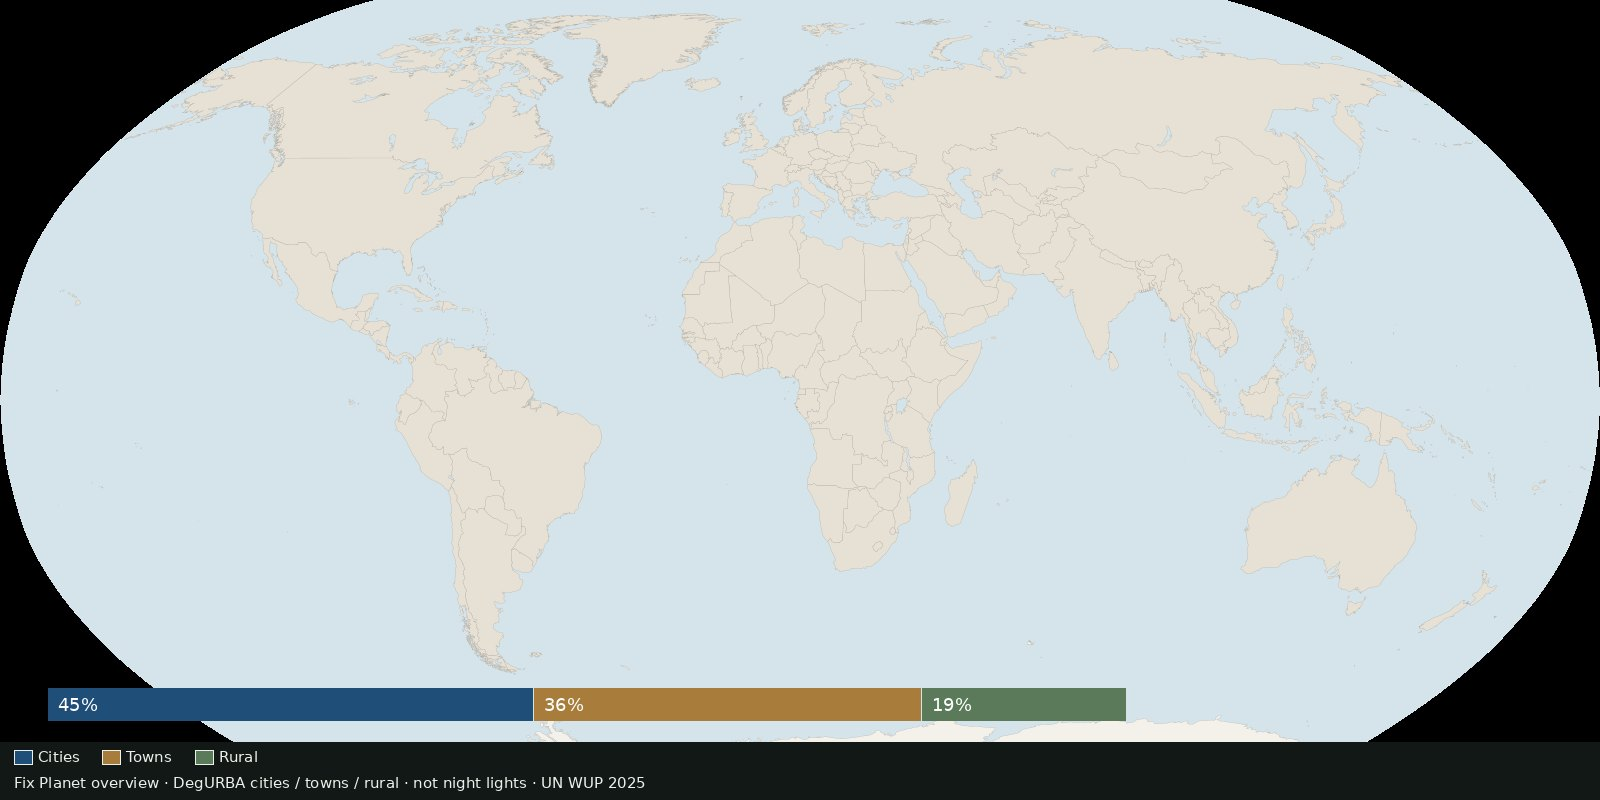
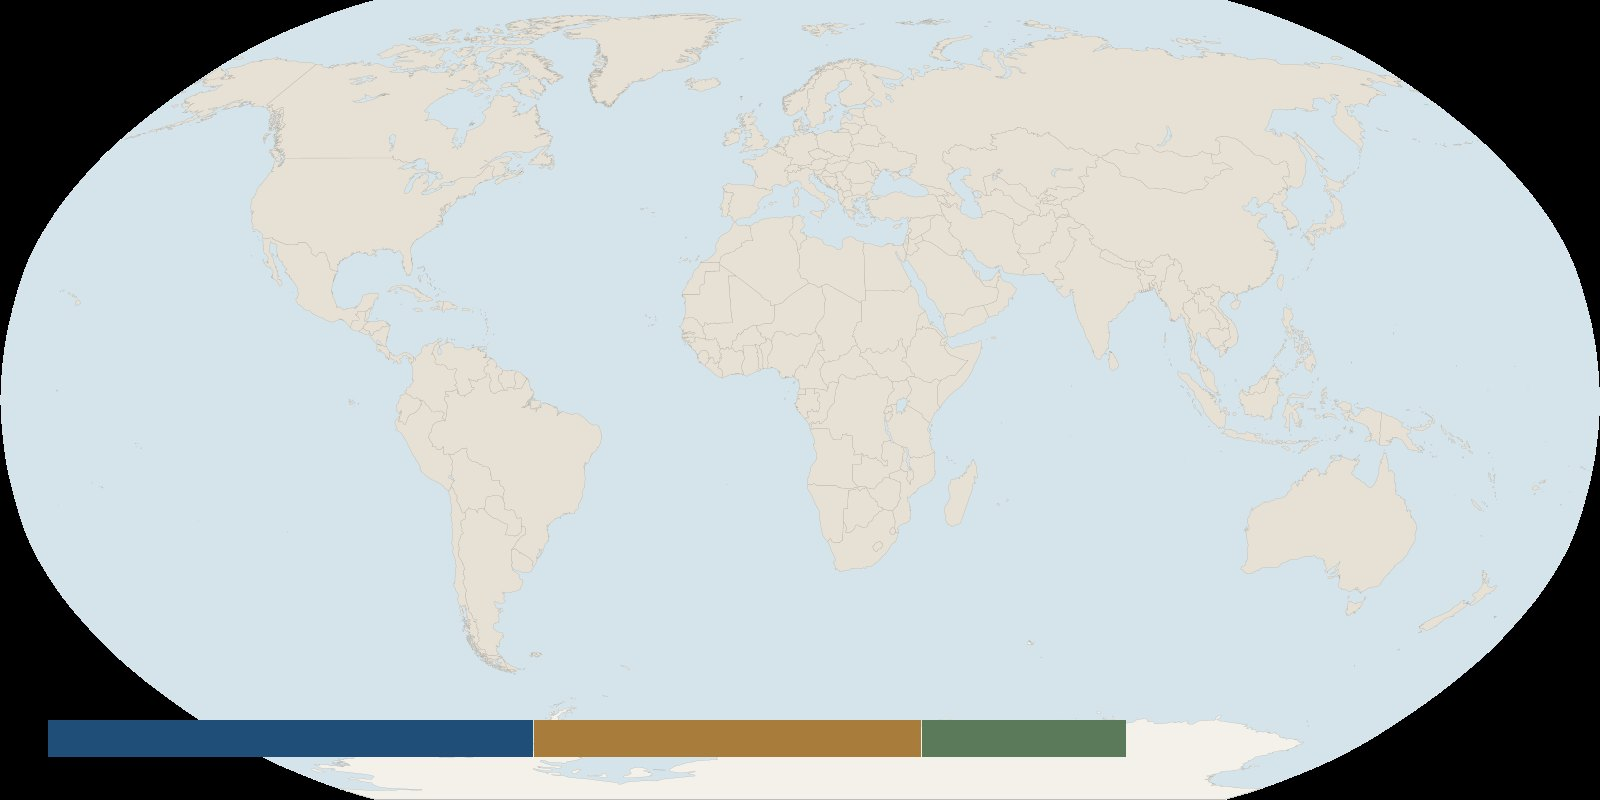
Name the four population source lists and strip preview text.
Readable publisher and document titles replace file stems, and same-document PDF duplicates are dropped. The four new previews keep map shading only.

Changed region(s): [[0.0, 0.8438, 0.8438, 1.0]]

diff --git a/src/data/maps.ts b/src/data/maps.ts
@@ -769,29 +769,28 @@ export const mapMeta: MapMeta[] = [
     previewKind: 'schematic',
     cardMeta: 'UN WPP 2024 · ~8.2 billion (2024) · country totals',
     sources: [
-      { label: 'UN WPP 2024', url: 'https://population.un.org/wpp/' },
+      { label: 'UN DESA — World Population Prospects', url: 'https://population.un.org/wpp/' },
       {
-        label: 'UN DESA PD WPP 2024',
+        label: 'UN DESA — World Population Prospects 2024',
         url: 'https://www.un.org/development/desa/pd/world-population-prospects-2024',
       },
       {
-        label: 'DESA Publications WPP 2024',
+        label: 'UN DESA — WPP 2024: Summary of Results',
         url: 'https://desapublications.un.org/publications/world-population-prospects-2024-summary-results',
       },
       {
-        label: 'DESA Publications 20847',
-        url: 'https://desapublications.un.org/file/20847/download',
-      },
-      {
-        label: 'UN DESA PD key_messages_wpp_2024',
+        label: 'UN DESA — WPP 2024: Key messages',
         url: 'https://www.un.org/development/desa/pd/sites/www.un.org.development.desa.pd/files/key_messages_wpp_2024_20240709.pdf',
       },
       {
-        label: 'UN DESA PD wpp-2024_09_07_24',
+        label: 'UN DESA — WPP 2024 press release',
         url: 'https://www.un.org/development/desa/pd/sites/www.un.org.development.desa.pd/files/undesa_pd_2024_wpp-2024_press-release_final_09_07_24.pdf',
       },
-      { label: 'OWID /population', url: 'https://ourworldindata.org/grapher/population' },
-      { label: 'OWID /population-growth', url: 'https://ourworldindata.org/population-growth' },
+      { label: 'Our World in Data — Population', url: 'https://ourworldindata.org/grapher/population' },
+      {
+        label: 'Our World in Data — Population growth',
+        url: 'https://ourworldindata.org/population-growth',
+      },
     ],
   },
   {
@@ -806,31 +805,30 @@ export const mapMeta: MapMeta[] = [
     previewKind: 'schematic',
     cardMeta: 'UN WUP 2025 · DegURBA · cities ~45%',
     sources: [
-      { label: 'UN WUP 2025', url: 'https://population.un.org/wup/' },
-      { label: 'UN WUP /downloads', url: 'https://population.un.org/wup/downloads' },
+      { label: 'UN DESA — World Urbanization Prospects', url: 'https://population.un.org/wup/' },
       {
-        label: 'UN DESA PD WUP 2025',
+        label: 'UN DESA — World Urbanization Prospects datasets',
+        url: 'https://population.un.org/wup/downloads',
+      },
+      {
+        label: 'UN DESA — World Urbanization Prospects 2025',
         url: 'https://www.un.org/development/desa/pd/world-urbanization-prospects-2025',
       },
       {
-        label: 'DESA Publications WUP 2025',
+        label: 'UN DESA — WUP 2025: Summary of Results',
         url: 'https://desapublications.un.org/publications/world-urbanization-prospects-2025-summary-results',
       },
       {
-        label: 'UN DESA PD wup2025_summary_of_results',
-        url: 'https://www.un.org/development/desa/pd/sites/www.un.org.development.desa.pd/files/undesa_pd_2025_wup2025_summary_of_results.pdf',
-      },
-      {
-        label: 'UN DESA PD key_messages_wup_2025',
+        label: 'UN DESA — WUP 2025: Key messages',
         url: 'https://www.un.org/development/desa/pd/sites/www.un.org.development.desa.pd/files/undesa_pd_2024_key_messages_wup_2025.pdf',
       },
       {
-        label: 'UN DESA PD press_release_wup25',
+        label: 'UN DESA — WUP 2025 press release',
         url: 'https://www.un.org/development/desa/pd/sites/www.un.org.development.desa.pd/files/undesa_pd_2025_press_release_wup25.pdf',
       },
-      { label: 'OWID /urbanization', url: 'https://ourworldindata.org/urbanization' },
+      { label: 'Our World in Data — Urbanization', url: 'https://ourworldindata.org/urbanization' },
       {
-        label: 'OWID /share-of-population-urban',
+        label: 'Our World in Data — Urban population share',
         url: 'https://ourworldindata.org/grapher/share-of-population-urban',
       },
     ],
@@ -848,27 +846,27 @@ export const mapMeta: MapMeta[] = [
     cardMeta: 'EC GHSL · GHS-BUILT-S R2023A · 1975–2030',
     sources: [
       {
-        label: 'EC GHSL R2023A',
+        label: 'European Commission JRC — Global Human Settlement Layer',
         url: 'https://human-settlement.emergency.copernicus.eu/',
       },
       {
-        label: 'EC GHSL ghs_buS2023',
+        label: 'European Commission JRC — GHSL GHS-BUILT-S R2023A',
         url: 'https://human-settlement.emergency.copernicus.eu/ghs_buS2023.php',
       },
       {
-        label: 'EC GHSL /datasets',
+        label: 'European Commission JRC — GHSL datasets',
         url: 'https://human-settlement.emergency.copernicus.eu/datasets.php',
       },
       {
-        label: 'EC GHSL ghs_pop2023',
+        label: 'European Commission JRC — GHSL GHS-POP R2023A',
         url: 'https://human-settlement.emergency.copernicus.eu/ghs_pop2023.php',
       },
       {
-        label: 'UN DESA PD wup2025_summary_of_results',
+        label: 'UN DESA — WUP 2025: Summary of Results',
         url: 'https://www.un.org/development/desa/pd/sites/www.un.org.development.desa.pd/files/undesa_pd_2025_wup2025_summary_of_results.pdf',
       },
       {
-        label: 'UN DESA PD key_messages_wup_2025',
+        label: 'UN DESA — WUP 2025: Key messages',
         url: 'https://www.un.org/development/desa/pd/sites/www.un.org.development.desa.pd/files/undesa_pd_2024_key_messages_wup_2025.pdf',
       },
     ],
@@ -885,26 +883,29 @@ export const mapMeta: MapMeta[] = [
     previewKind: 'schematic',
     cardMeta: 'UN WPP 2024 · annual growth rate · country',
     sources: [
-      { label: 'UN WPP 2024', url: 'https://population.un.org/wpp/' },
+      { label: 'UN DESA — World Population Prospects', url: 'https://population.un.org/wpp/' },
       {
-        label: 'UN DESA PD WPP 2024',
+        label: 'UN DESA — World Population Prospects 2024',
         url: 'https://www.un.org/development/desa/pd/world-population-prospects-2024',
       },
       {
-        label: 'UN DESA PD key_messages_wpp_2024',
+        label: 'UN DESA — WPP 2024: Key messages',
         url: 'https://www.un.org/development/desa/pd/sites/www.un.org.development.desa.pd/files/key_messages_wpp_2024_20240709.pdf',
       },
       {
-        label: 'UN DESA PD wpp-2024_09_07_24',
+        label: 'UN DESA — WPP 2024 press release',
         url: 'https://www.un.org/development/desa/pd/sites/www.un.org.development.desa.pd/files/undesa_pd_2024_wpp-2024_press-release_final_09_07_24.pdf',
       },
       {
-        label: 'OWID /population-growth-rates',
+        label: 'Our World in Data — Population growth rate',
         url: 'https://ourworldindata.org/grapher/population-growth-rates',
       },
-      { label: 'OWID /population-growth', url: 'https://ourworldindata.org/population-growth' },
       {
-        label: 'OWID /population-and-demography',
+        label: 'Our World in Data — Population growth',
+        url: 'https://ourworldindata.org/population-growth',
+      },
+      {
+        label: 'Our World in Data — Population and demography',
         url: 'https://ourworldindata.org/explorers/population-and-demography',
       },
     ],

diff --git a/scripts/generate-map-previews.py b/scripts/generate-map-previews.py
@@ -1025,30 +1025,35 @@ def methane_emissions() -> None:
     )
 
 
+def _shade_countries(groups: dict[str, list[str]], ocean: str, land: str, ant: str, stroke: str, dest: str) -> None:
+    """Country shading only. No legend and no footer — these previews are reused in every locale."""
+    css = f"""
+    .oceanxx {{ fill: {ocean} !important; stroke: none !important; }}
+    .landxx {{ fill: {land} !important; stroke: {stroke} !important; stroke-width: 0.28 !important; }}
+    .antxx {{ fill: {ant} !important; }}
+    .circlexx, .subxx, .noxx, .unxx {{ opacity: 0 !important; }}
+    {css_fills(groups)}
+    """
+    save_jpg(render_svg_image(css, ""), dest)
+
+
 def world_population() -> None:
-    """Log-scale orientation of country totals. Not WPP figures and not density."""
+    """Log-scale orientation of country totals. Shading only."""
     highest = "in cn".split()
     high = "us id pk ng br bd".split()
     mid = "ru mx jp et ph eg cd vn ir tr de".split()
-    conflicts_schematic(
+    _shade_countries(
         {"#0b3a5b": highest, "#1f6aa5": high, "#7eb0d4": mid},
         ocean="#d5e4ee",
         land="#e7e2d8",
         ant="#f4f7f8",
         stroke="#8a938c",
         dest="world-population.jpg",
-        swatches=[
-            ((11, 58, 91), "Highest band"),
-            ((31, 106, 165), "High band"),
-            ((126, 176, 212), "Mid band"),
-            ((231, 226, 216), "Not classed here"),
-        ],
-        credit="Fix Planet overview · country population · log-scale bands · not WPP figures · not density · UN WPP 2024 / OWID",
     )
 
 
 def cities_and_towns() -> None:
-    """DegURBA world shares (cities / towns / rural). Not a national % urban choropleth."""
+    """DegURBA world shares as an unlabeled color bar. Not a national % urban choropleth."""
     css = """
     .oceanxx { fill: #d5e3ea !important; stroke: none !important; }
     .landxx { fill: #e7e0d4 !important; stroke: #8a8174 !important; stroke-width: 0.28 !important; }
@@ -1057,33 +1062,22 @@ def cities_and_towns() -> None:
     """
     im = render_svg_image(css, "")
     draw = ImageDraw.Draw(im)
-    font = load_font(18)
-    x0, y0, bar_h, total_w = 48, 688, 32, 1080
+    x0, y0, bar_h, total_w = 48, 720, 36, 1080
     segments = [
-        (0.45, (31, 78, 121), "45%"),
-        (0.36, (168, 124, 58), "36%"),
-        (0.19, (90, 122, 90), "19%"),
+        (0.45, (31, 78, 121)),
+        (0.36, (168, 124, 58)),
+        (0.19, (90, 122, 90)),
     ]
     x = x0
-    for frac, color, label in segments:
+    for frac, color in segments:
         w = int(total_w * frac)
         draw.rectangle((x, y0, x + w - 2, y0 + bar_h), fill=color)
-        draw.text((x + 10, y0 + 6), label, fill=(255, 255, 255), font=font)
         x += w
-    im = legend_bar(
-        im,
-        [
-            ((31, 78, 121), "Cities"),
-            ((168, 124, 58), "Towns"),
-            ((90, 122, 90), "Rural"),
-        ],
-        "Fix Planet overview · DegURBA cities / towns / rural · not night lights · UN WUP 2025",
-    )
     save_jpg(im, "cities-and-towns.jpg")
 
 
 def built_up_surface() -> None:
-    """GHSL-style built-up intensity. Not night lights and not a density rainbow."""
+    """GHSL-style built-up intensity. Shading only."""
     css = """
     .oceanxx { fill: #c5d5df !important; stroke: none !important; }
     .landxx { fill: #e6dcc8 !important; stroke: #8d8270 !important; stroke-width: 0.28 !important; }
@@ -1106,34 +1100,23 @@ def built_up_surface() -> None:
         (1280, 620, 16, 10, field, 0.45),
         (780, 760, 14, 10, field, 0.4),
     ]
-    render_svg(
-        css,
-        ellipses(blobs),
-        "built-up-surface.jpg",
-        "Fix Planet overview · built-up surface · not night lights · not density · EC GHSL R2023A",
-    )
+    save_jpg(render_svg_image(css, ellipses(blobs)), "built-up-surface.jpg")
 
 
 def population_growth() -> None:
-    """Diverging growth-rate orientation. Named rapid-growth countries plus a slow band."""
+    """Diverging growth-rate orientation. Shading only."""
     # Rapid through 2054, named in WPP 2024: Angola, CAR, DRC, Niger, Somalia.
     # Slow band is an orientation of places the same revision treats as already peaked
     # (China, Germany, Japan, Russian Federation) — not the full list of 63.
     fast = "ao cf cd ne so".split()
     slow = "cn de jp ru".split()
-    conflicts_schematic(
+    _shade_countries(
         {"#b6402a": fast, "#3d6b8c": slow},
         ocean="#d7e0e6",
         land="#e6e2d8",
         ant="#f4f1ea",
         stroke="#8a8474",
         dest="population-growth.jpg",
-        swatches=[
-            ((182, 64, 42), "Faster growth"),
-            ((61, 107, 140), "Slower change"),
-            ((230, 226, 216), "Not classed here"),
-        ],
-        credit="Fix Planet overview · annual growth rate · not WPP rates · UN WPP 2024 / OWID",
     )
 
 
